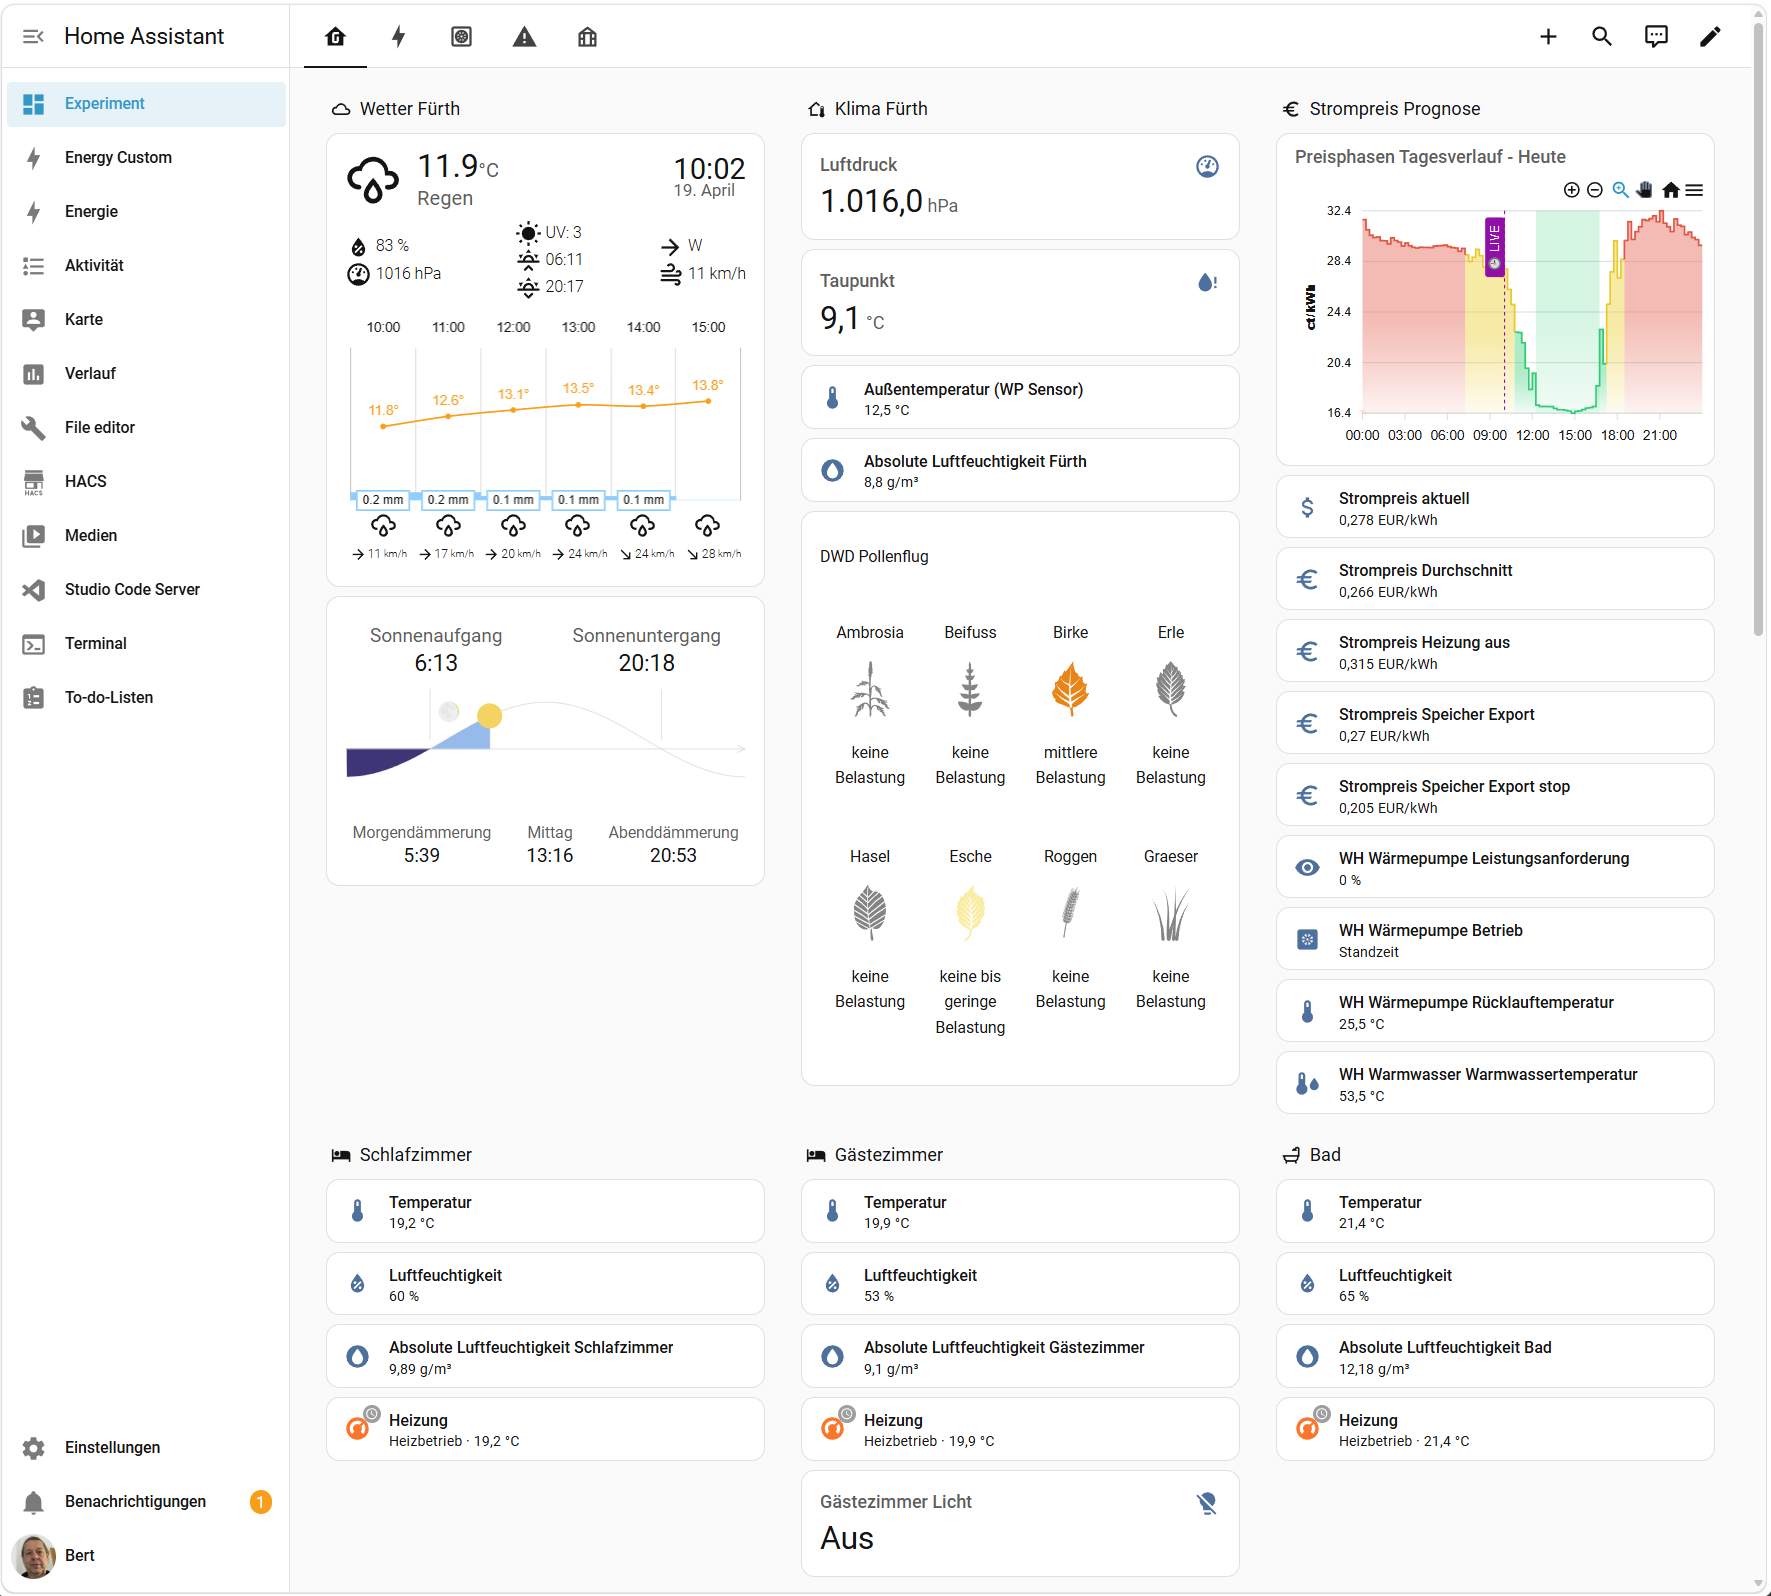
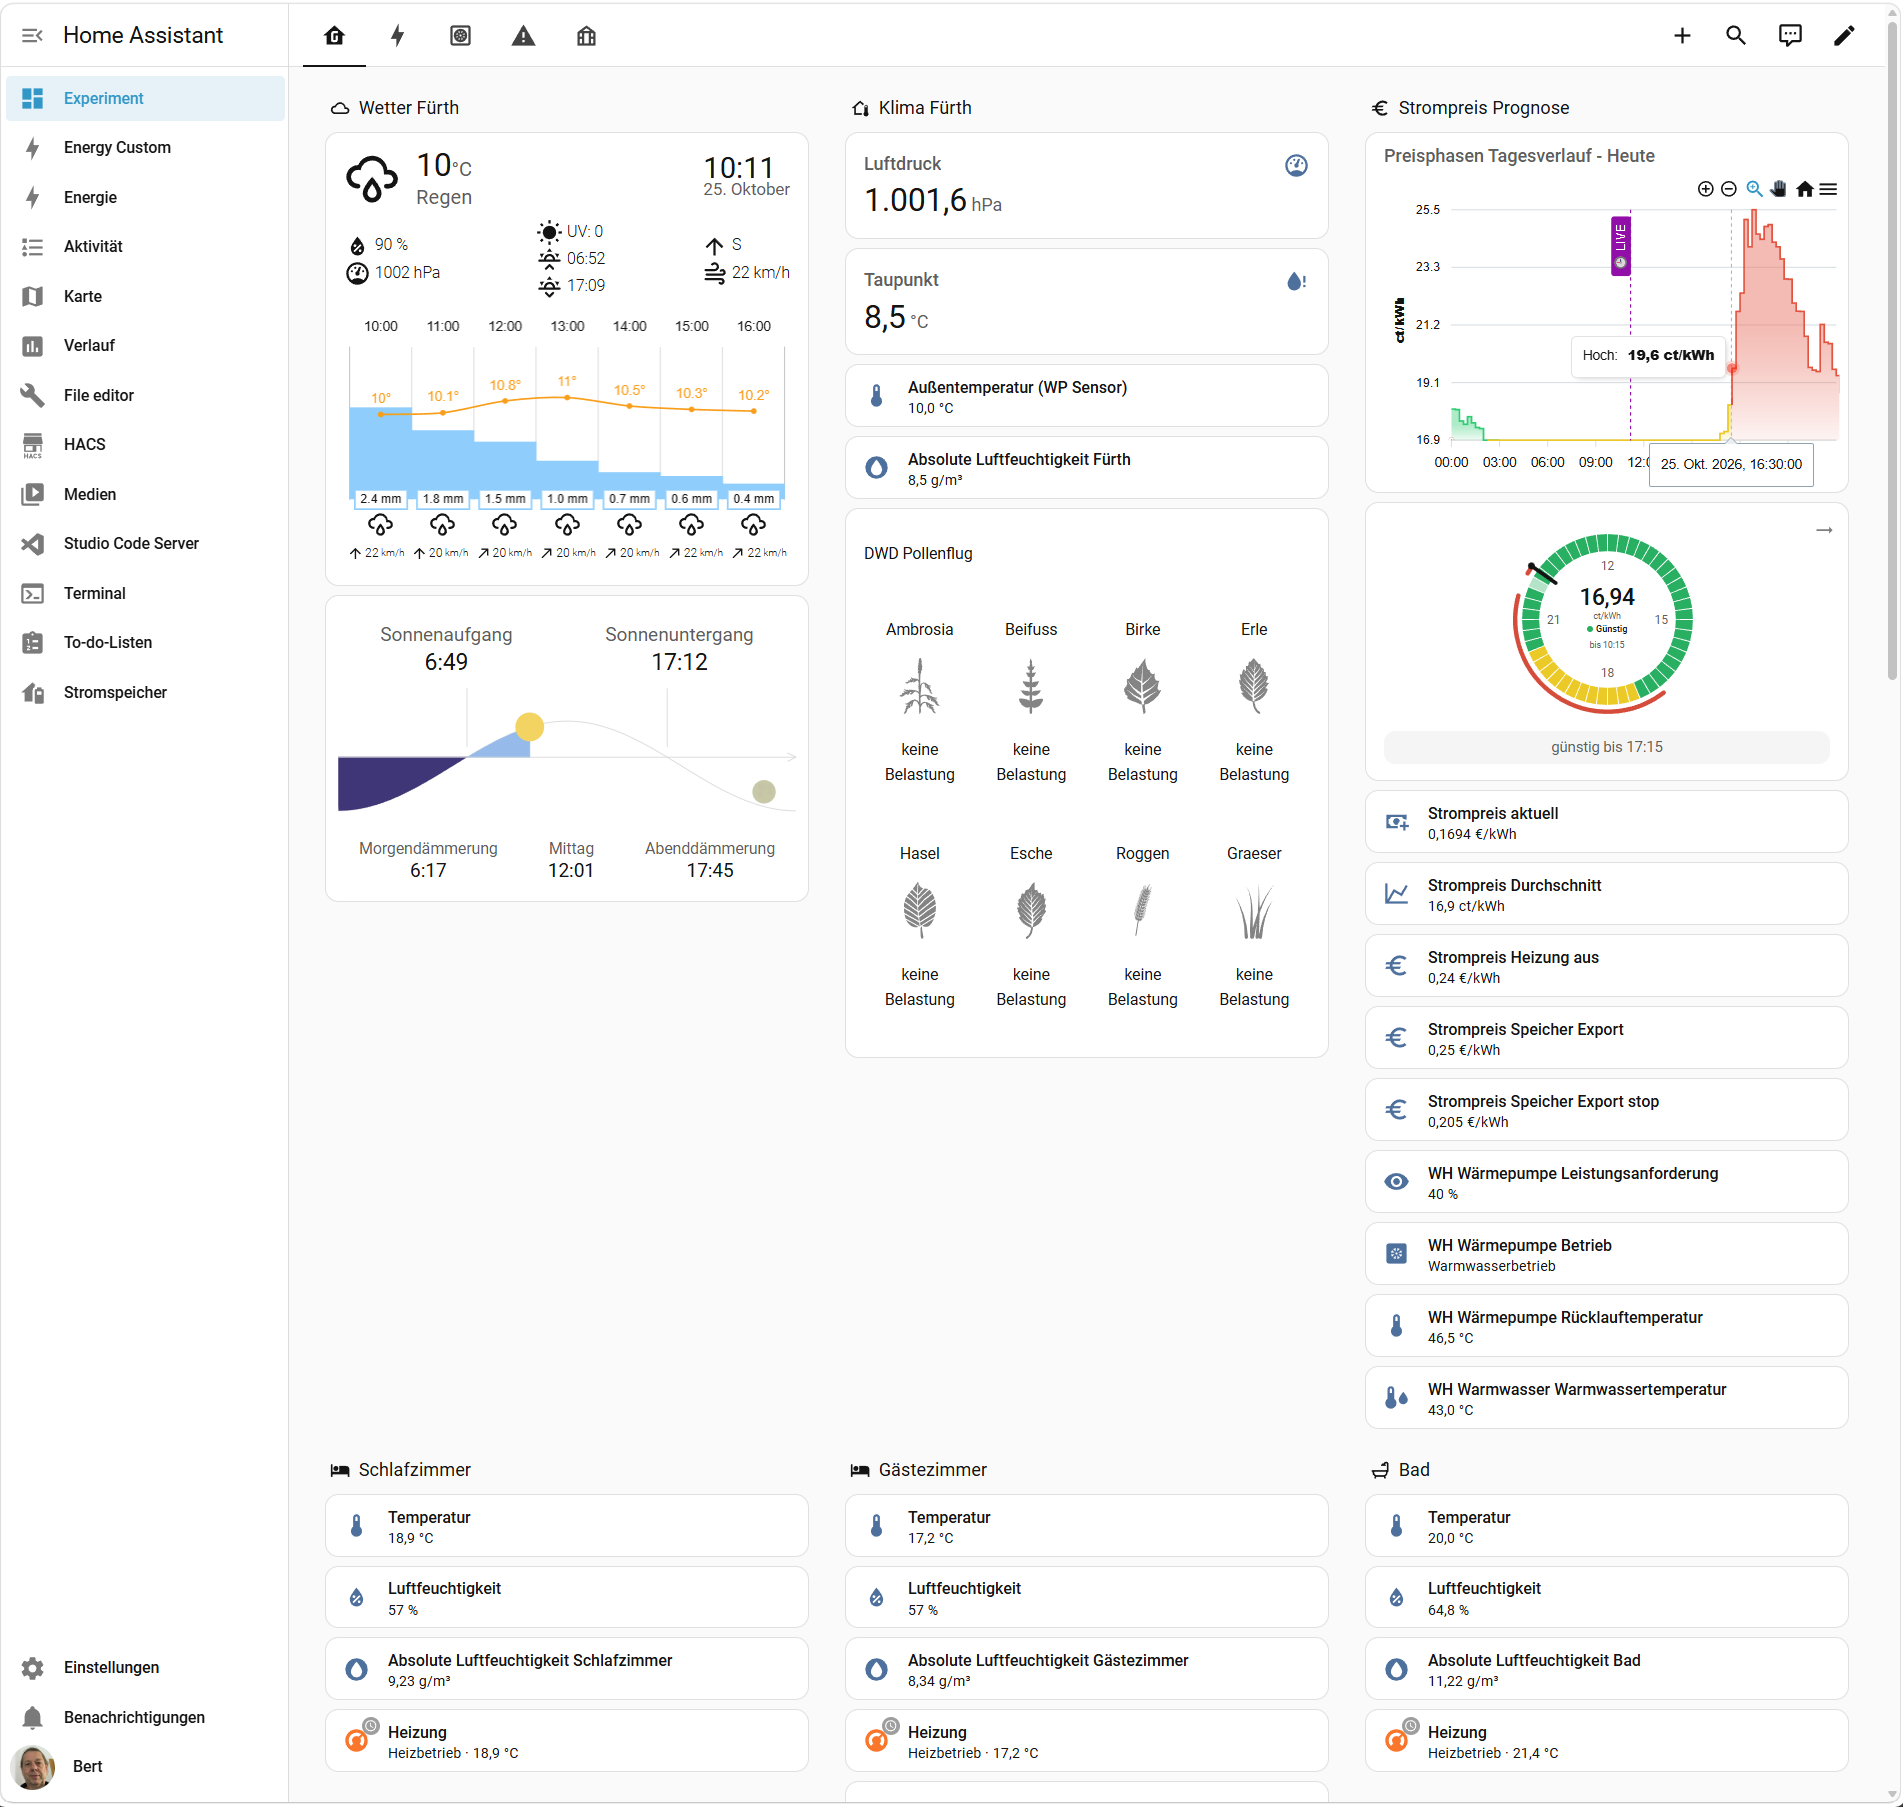
Update configuration and README.md

diff --git a/README.md b/README.md
@@ -52,7 +52,7 @@ Experiment
 
 ## Integrations
 
-- Modbus: SAX battery control and monitoring
+- Modbus: SAX battery control and monitoring (experimental branch:  [support-sun-spec](https://github.com/Bertk/sax_battery_ha/tree/support-sun-spec))
 - REST: Tibber electricity price API
 - Generic Thermostat: Infrared heating automation
 - Binary Sensors: Night mode, leak detection
@@ -96,17 +96,22 @@ This dashboard provides an overview of various views for configurations and devi
 
 ### Custom integration installed using HACS
 
-|integration/cards name| comment|
+|integration|comment|
 |---|:---:|
+|[Cowboy](https://github.com/elsbrock/cowboy-ha)|e-bike|
 |[Deutscher Wetterdienst](https://github.com/FL550/dwd_weather)||
 |[DWD Pollenflug](https://github.com/mampfes/hacs_dwd_pollenflug)||
-|[Solarman](https://github.com/StephanJoubert/home_assistant_solarman)||
+|[Easee EV charger](https://github.com/nordicopen/easee_hass)||
 |[HACS](https://github.com/hacs/integration)||
+|[Meross LAN](https://github.com/krahabb/meross_lan)||
+|[RadonEye RD200](https://github.com/jdeath/rd200v2)||
 |[SAX Power Home battery management](https://github.com/matfroh/sax_battery_ha)||
+|[Solarman](https://github.com/StephanJoubert/home_assistant_solarman)||
 |[Tibber Prices custom integration for Home Assistant](https://github.com/jpawlowski/hass.tibber_prices)||
 |[Weishaupt Wärmepumpe](https://github.com/OStrama/weishaupt_modbus)||
-|[Weishaupt WEM Portal](https://github.com/erikkastelec/hass-WEM-Portal)|better energy value precision|
-|[Xiaomi Miot Auto](https://github.com/al-one/hass-xiaomi-miot)||
+
+|cards name|comment|
+|---|:---:|
 |[Weather Chart Card](https://github.com/mlamberts78/weather-chart-card)||
 |[mini-graph-card](https://github.com/kalkih/mini-graph-card)||
 |[card-mod 3](https://github.com/thomasloven/lovelace-card-mod)||
@@ -122,19 +127,14 @@ This dashboard provides an overview of various views for configurations and devi
 |[Home Assistant iOS](https://www.home-assistant.io/integrations/ios)||
 |[Home Connect](https://www.home-assistant.io/integrations/home_connect)||
 |[HomeKit Device](https://www.home-assistant.io/integrations/homekit_controller/)| replaced Tado|
-|[Meross LAN](https://github.com/krahabb/meross_lan)||
-|[Meteorologisk institutt (Met.no)](https://www.home-assistant.io/integrations/met)||
 |[Mobile-App](https://www.home-assistant.io/integrations/mobile_app)||
-|[Modbus](https://www.home-assistant.io/integrations/modbus)||
 |[MusicCast](https://www.home-assistant.io/integrations/yamaha_musiccast)||
 |[Oral-B](https://www.home-assistant.io/integrations/oralb)||
-|[RadonEye RD200 BLE](https://github.com/jdeath/rd200v2)||
-|[RESTful](https://www.home-assistant.io/integrations/rest)||
 |[Reolink](https://www.home-assistant.io/integrations/reolink)||
+|[Roborock](https://www.home-assistant.io/integrations/roborock/)||
 |[Sonne](https://www.home-assistant.io/integrations/sun)||
 |[~~Tado~~](https://www.home-assistant.io/integrations/tado)|free users limits 100 requests/day|
 |[Tibber](https://www.home-assistant.io/integrations/tibber)||
-|[VeSync](https://www.home-assistant.io/integrations/vesync)||
 |[Zigbee Home Automation](https://www.home-assistant.io/integrations/zha)||
 
 > [!NOTE]  
